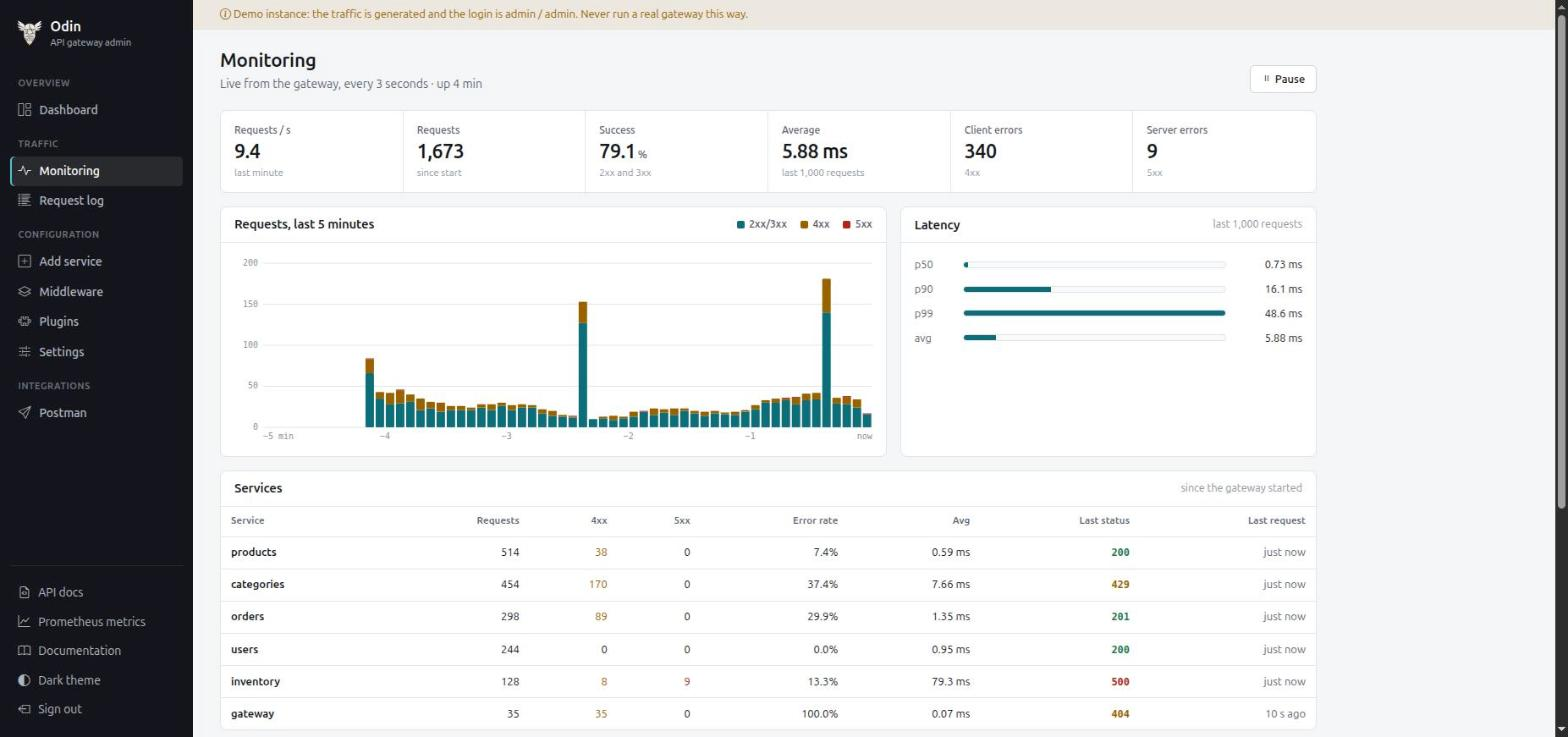
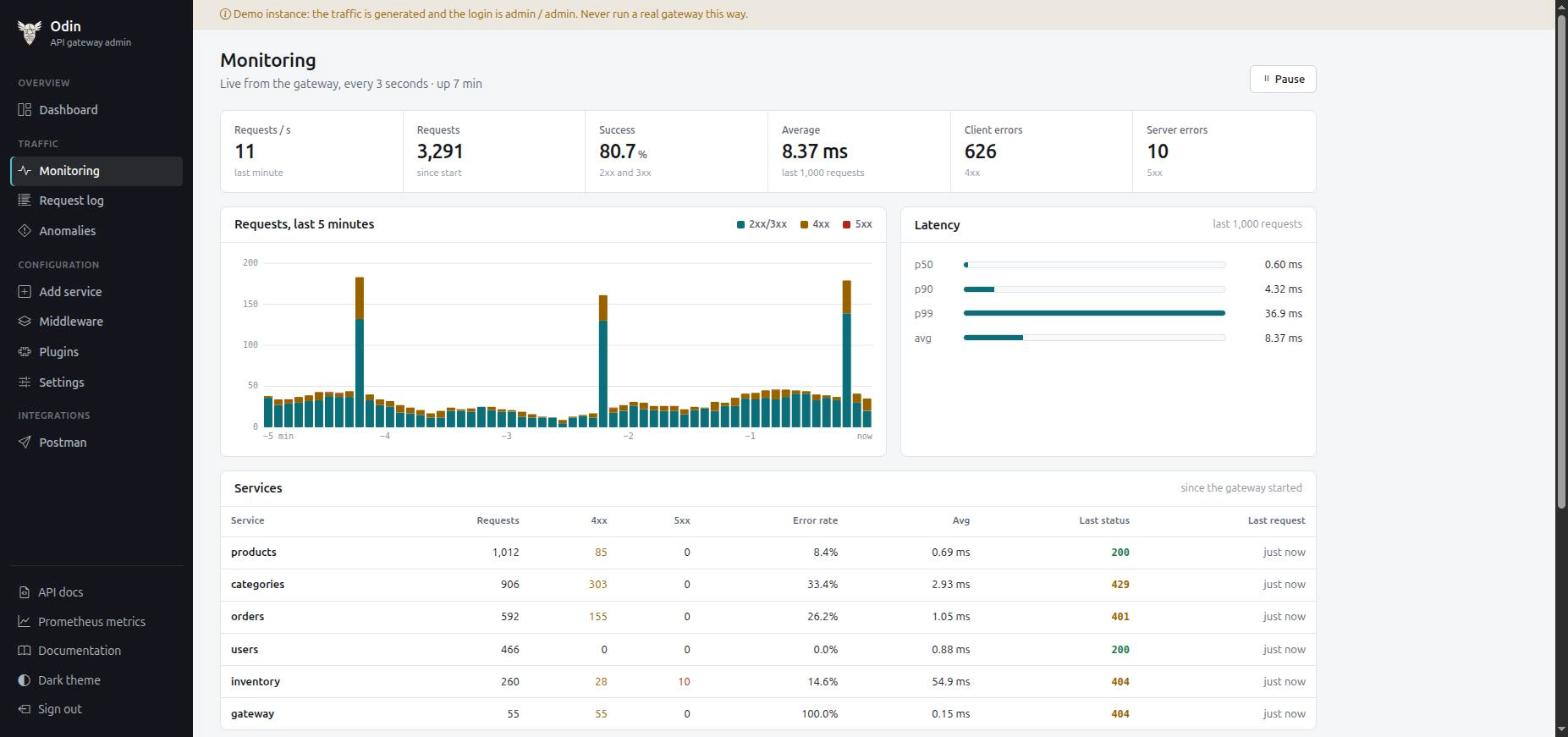
docs(demo): retake the admin screenshots, add the Anomalies page
New screenshots from the demo stack after the latest admin changes
(the navigation now has Anomalies, the dashboard shows open
anomalies), and a section for the Anomalies page.

diff --git a/docs/demo.md b/docs/demo.md
@@ -41,8 +41,8 @@ which its health check reports.
 
 ### Dashboard
 
-Live totals, and every service with its route, upstream health, the policies the gateway
-applies and its traffic.
+Live totals, every service with its route, upstream health, the policies the gateway applies and
+its traffic, and the open anomalies.
 
 ![Odin admin dashboard with five services and live traffic](assets/demo/dashboard.jpg)
 
@@ -53,14 +53,20 @@ rates, and the state of every health-checked target.
 
 ![Odin monitoring page with a five-minute request chart and per-service traffic](assets/demo/monitoring.jpg)
 
+### Anomalies
+
+Odin learns each service's normal traffic, server error share and latency, and reports windows
+that fall far outside them. In the demo, the generator's swings and bursts show up as traffic
+spikes and drops.
+
+![Odin anomalies page with traffic spikes and drops per service](assets/demo/anomalies.jpg)
+
 ### Request log
 
 The last 100 requests, filterable by path, service, status and duration; each can be copied as
-a curl command.
+a curl command. The admin follows the system's light or dark setting:
 
-![Odin request log with 200, 401 and 429 responses](assets/demo/request-log.jpg)
-
-The admin follows the system's light or dark setting:
+![Odin request log with 200, 401 and 404 responses, in the dark theme](assets/demo/request-log.jpg)
 
 ![Odin admin dashboard in the dark theme](assets/demo/dashboard-dark.jpg)
 

diff --git a/ROADMAP.md b/ROADMAP.md
@@ -54,7 +54,6 @@ more.
 
 | Item | Finding | Effort |
 | --- | --- | --- |
-| Demo: retake the screenshots with the Anomalies page | — | S |
 | Release v0.2.0 (binaries, signed multi-arch image), then check it end to end | [OPS-07](docs/AUDIT.md#operations) | S |
 
 ### 2. OpenID Connect authentication
